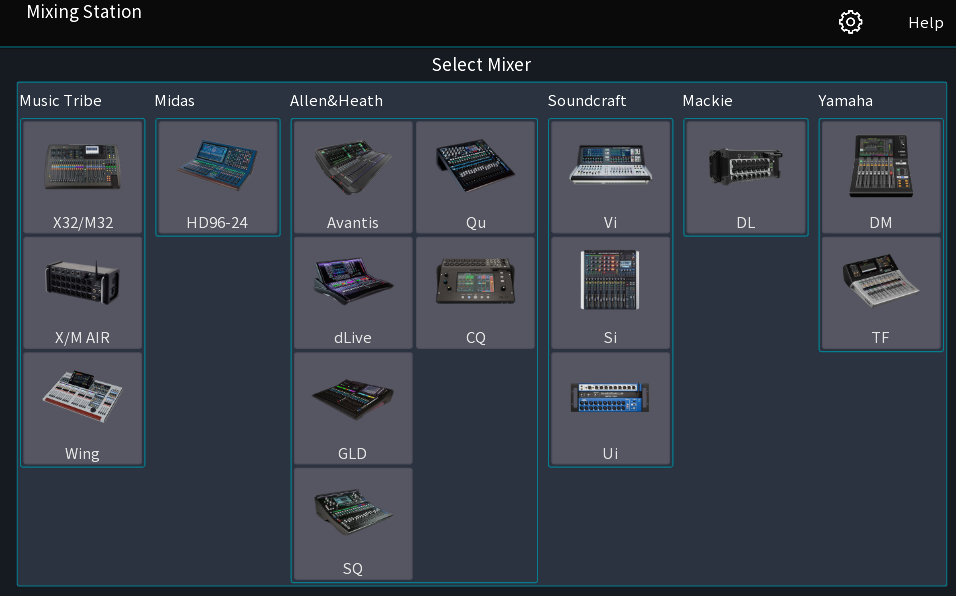
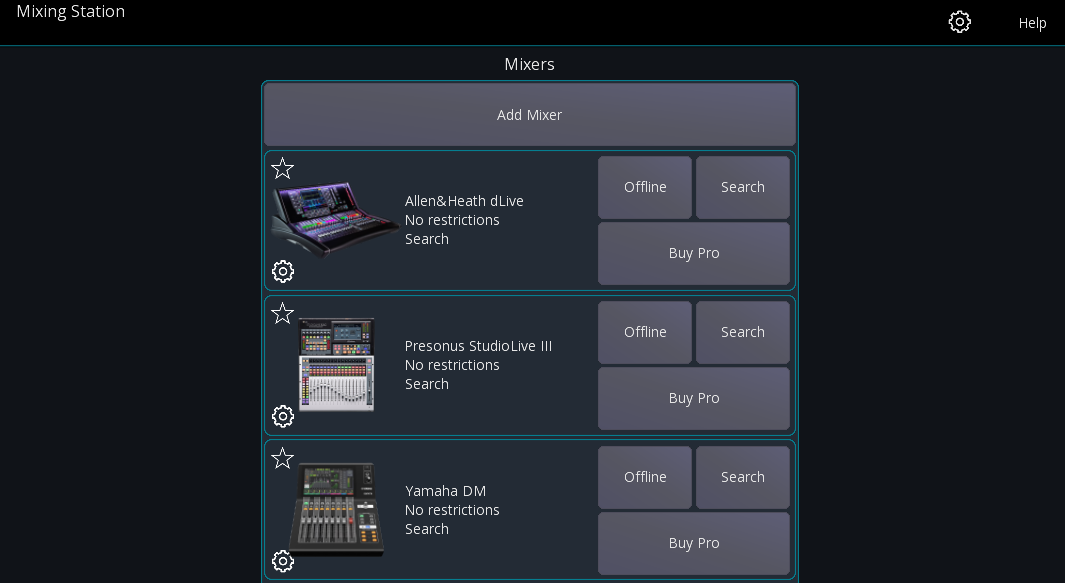
chore: update getting started

diff --git a/docs/getting-started.md b/docs/getting-started.md
@@ -1,19 +1,29 @@
 # Getting started
 
-See [features](feature-list.md) for compatible mixers.
+When opening the app you'll see the mixer selection screen:
 
-## Offline mode
+![Mixer selection](../img/mixer-selection.png)
 
-The offline mode provides access to nearly all app features without
-needing to connect to a mixer. However, some features that will *not* work in offline mode include the following:
+On this screen you can select to which mixer you want to connect to.
 
-- Channel link
-- Mutegroups / DCA hardmute
-- Presets (if stored on the mixer)
+By pressing the `Add Mixer` button you can add a new entry.
 
-## Network setup
+## Mixer entry
 
-Please consult the manual of the mixer manufacturer on how to setup your network.
+When adding a new mixer (or when pressing the gear icon on an existing entry) you see the connection settings entry:
+
+![settings](../img/mixer-connection-settings.png)
+
+This dialogue allows you to configure the access mode and connection settings
+
+### Access Mode
+
+The access mode defines which parameters are accessible to the user.
+Use `Personal Monitoring` if you want to control your own monitor (IEM/Wedge).
+
+### Network setup
+
+Please consult the manual of the mixer manufacturer on how to set up your network.
 Here is a basic sample configuration:
 
 | Device  | IP               | Subnet mask   | Misc                                  | 
@@ -30,43 +40,16 @@ Starting with iOS 14 you need to explicitly allow the app to communicate with yo
 iOS asks for your permission once you try to connect to a mixer for the first time.
 You can check the settings in iOS: `Settings > Privacy > Local Network`
 
-## First launch
+## Offline mode
 
-When opening the app you'll see the launcher view as shown below.
+The offline mode provides access to nearly all app features without
+needing to connect to a mixer. However, some features that will not work in offline mode including:
 
-![Launcher](img/mixer-selection.png)
-You can select the mixer model you want to use in this view. This will open the Quick-Connect dialog (see below)
+- Channel link
+- Mutegroups / DCA hardmute
+- Scenes / Presets (if stored on the mixer)
 
-### Quick-Connect
-
-Once you've selected the mixer series you want to work with, you'll see the
-following view.
-
-![Launcher](img/connection-profile.png)
-
-This view allows you to configure where and how you want to connect to the mixer.
-
-### Permissions
-
-The `permissions` button allows you to restrict access to certain mix buses.
-The user will not be able to change any mix other than the ones selected. This is ideal for personal monitor mixing or
-dedicated monitor engineers.
-It is also possible to limit the access to multiple mixes.
-
-### Mixer IP / Hostname
-
-This field is used to enter the console IP address or hostname. It's only used in conjunction with `Connect` button.
-
-## Mixer history
-
-If you've already connected to a mixer in the past you'll see the history view instead:
-![Launcher](img/generated/start-screenshot.png)
-
-In this view you see up to 10 recently used mixers. Each entry stores the mixer series, connection details such as IP
-address
-and the permissions.
-
-### Favorites
+## Favorites
 
 <div style="float:left;margin:0 10px 10px 0" markdown="1">
 ![Favorite mixer](img/favorite-mixer.png)
@@ -75,21 +58,4 @@ and the permissions.
 You can pin connections by pressing the `star` or `mixer icon`:
 Pinned entries will always appear at the top of the list
 and won't get removed over time.
-<div style="clear: both;"></div>
-
-### Editing entries
-
-<div style="float:left;margin:0 10px 10px 0" markdown="1">
-![edit connection](img/edit-connection.png)
-</div>
-You can edit an entry by long-pressing (or `right-clicking`) the entry.
-This will open the edit view.
-In this view you can:
-
-- Set a name for the entry
-- Change the permission settings
-- Set the IP/Hostname that should be used for connect
-- Configure if you want to connect to a fixed ip address or search for the mixer every time
-
-
 <div style="clear: both;"></div>

diff --git a/docs/feature-list.md b/docs/feature-list.md
@@ -3,7 +3,7 @@
 ## App versions
 
 The app is available for three different platforms: **[iOS](platforms/ios.md)**, **[Android](platforms/android.md)** and
-**[Desktop](platforms/desktop.md)**.
+**[Desktop](platforms/desktop.md)**(Win,MacOS,Linux).
 
 Since the app store policies are slightly different, each app has different versions on each platform.
 Click on the left menu items to open the page for your platform and see further details.
@@ -34,7 +34,7 @@ Please make sure your mixer has the latest compatible firmware.
 | Wing           | Behringer Wing (Full, Compact, Rack)             | Any                     |                                                          |
 | StudioLive III | PreSonus StudioLive Series 3                     | V2.7.2 or newer         | See [SL3](presonus/sl3.md)                               |
 | DL             | Mackie DL32S(E)/DL16S(E)/DL32R/DL1608            | MFV V5.2 (Mandolin 1.6) |                                                          |
-| DM             | Yamaha DM3/DM3S                                  | V1.10 or newer          | See [DM](yamaha/dm.md)                                   |
+| DM3            | Yamaha DM3/DM3S                                  | V1.10 or newer          | See [DM](yamaha/dm.md)                                   |
 | TF             | Yamaha TF                                        | V4.50 or newer          | See [TF](yamaha/tf.md)                                   |
 
 See [incompatible mixers](incompatible-mixers.md) for a list of mixers

diff --git a/docs/ui-controls.md b/docs/ui-controls.md
@@ -2,8 +2,7 @@
 
 This page describes the most common UI controls and how to use them.
 
-Note that if you are using a mouse, **right click** - in the following instructions - is equivalent to **press and hold
-**.
+Note: When using a mouse, use can also **right-click** instead of **press and hold**.
 
 ## Buttons
 
@@ -64,7 +63,7 @@ The white line indicates the default value for this parameter.
 
 ![Input button](img/text-input.png)
 
-Dark buttons indicate a text input. Some fields may allow multiline text input. In iOS you can use the `$` character to
+Dark buttons indicate a text input. Some fields may allow multiline text input. On iOS you can use the `$` character to
 indicate a line break.
 
 ## Channel buttons
@@ -86,7 +85,6 @@ Contains two **scrollable** bars for layers and access to [sends on faders](send
 ### Fine mode
 
 When enabled, faders will be less sensitive, allowing for smaller and more precise adjustments.
-
 
 ### Mute enable
 

diff --git a/docs/settings/channel-strip.md b/docs/settings/channel-strip.md
@@ -1,9 +1,8 @@
 # Channel strip settings
 
-![Channel strip settings](../img/settings/channel-strip.webp)
+![Channel strip settings](../img/settings/channel-strip.png)
 
-These settings are related to the channel strips in the mixer and belong to the **user settings** (i.e., they apply to
-all mixers).
+The channel strips can be fully configured to your liking. The configuration is stored globally for your device.
 
 For more advanced configuration options take a look at the [custom layouts](../custom-layouts.md) page.
 

diff --git a/docs/settings/global.md b/docs/settings/global.md
@@ -47,6 +47,10 @@ Allows you to invert the mouse / touchpad scroll direction or disable it entirel
 
 When enabled, a user with restricted access to a single bus is allowed to access the processing of that bus.
 
+### Access bus fader
+
+When enabled, a user with restricted access will see the main bus fader on the right side of the screen.
+
 ### Autostart
 
 Autostart allows you to configure which mixer the app should connect to when starting.
